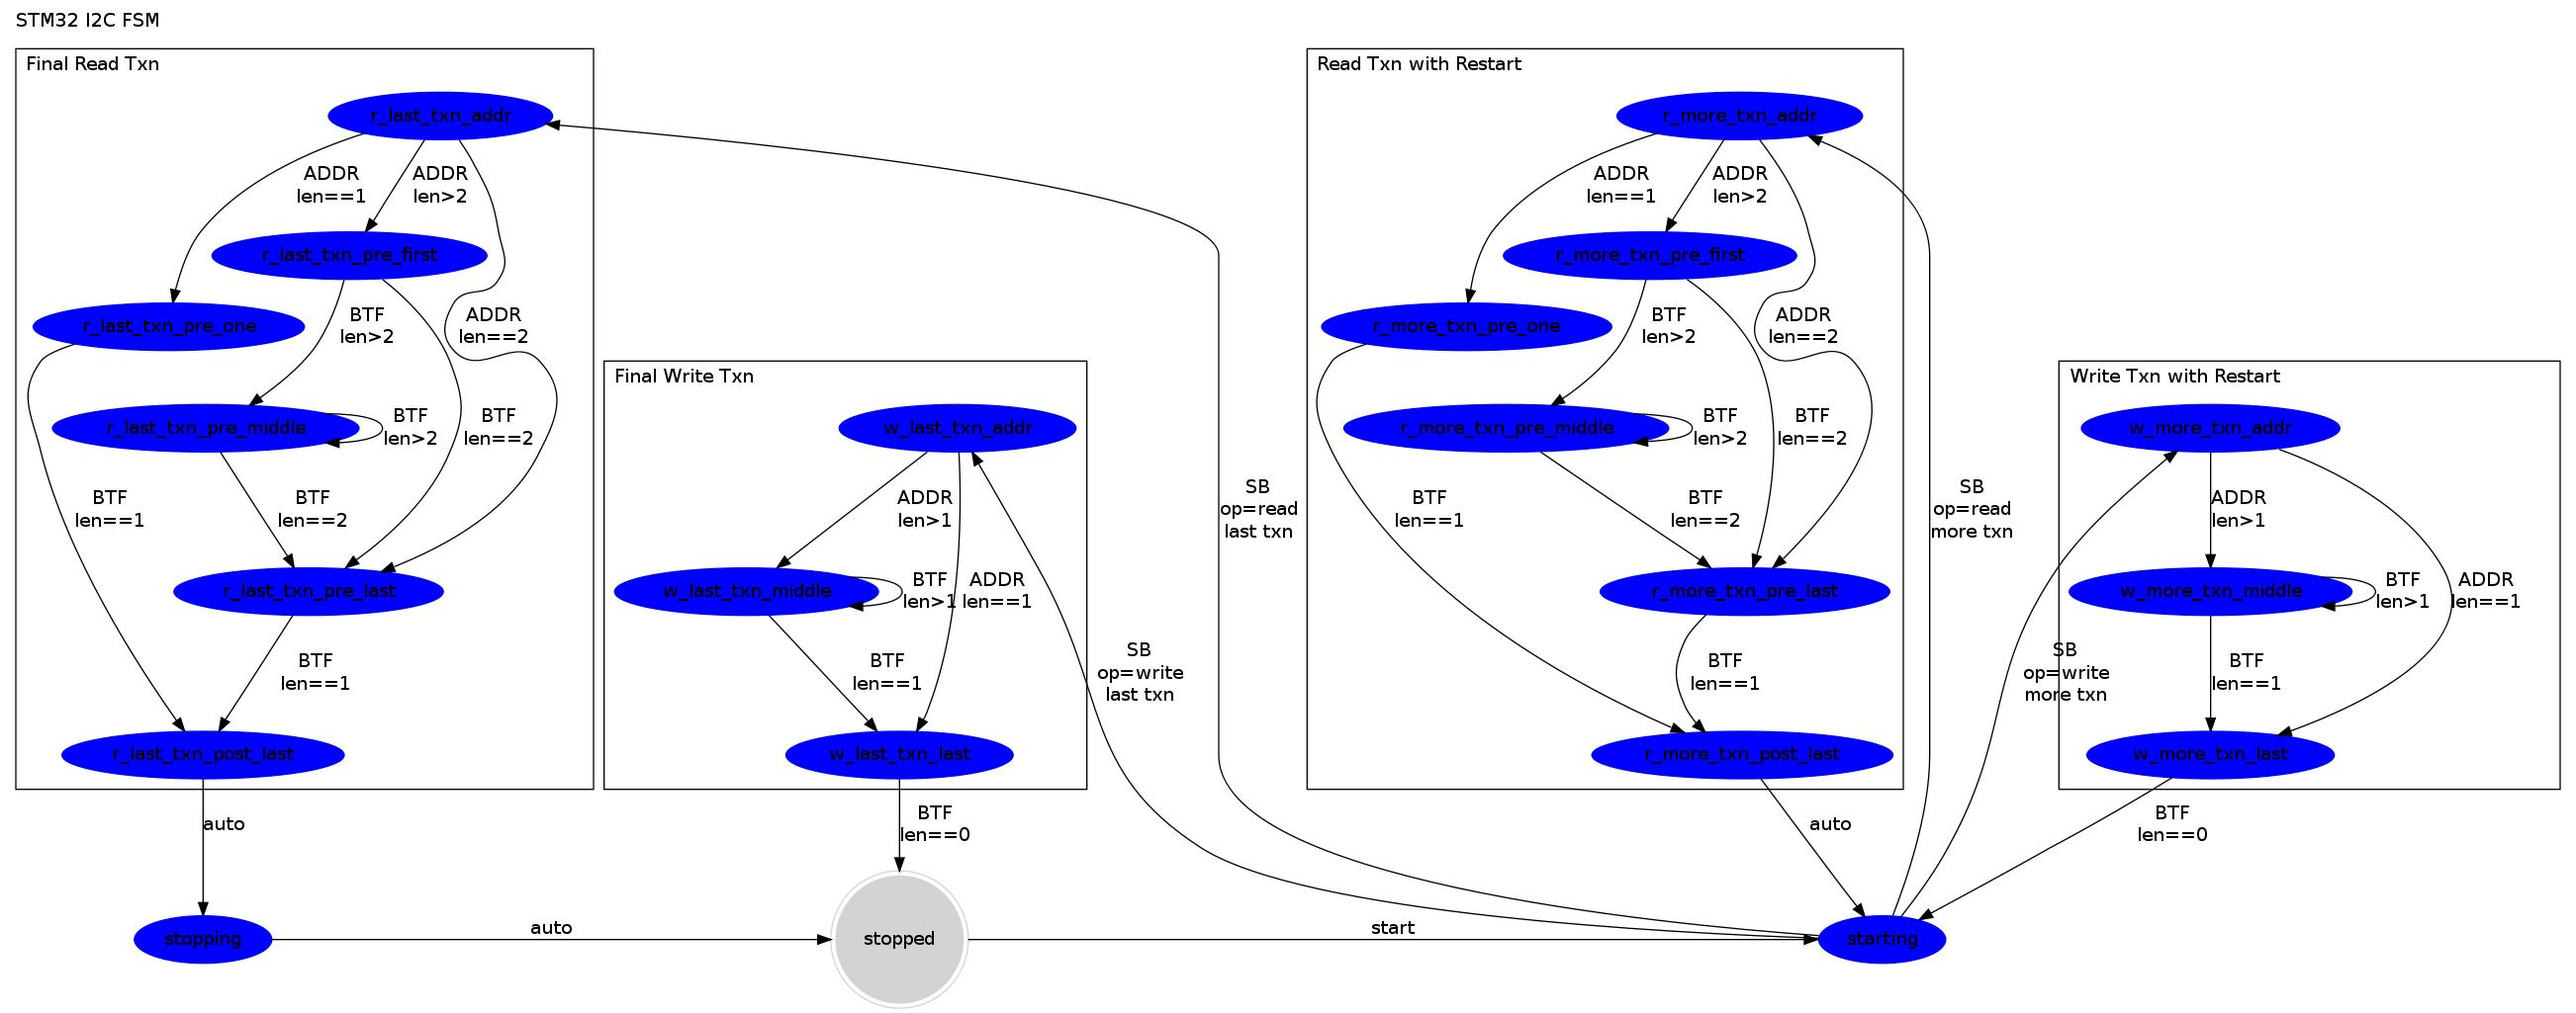
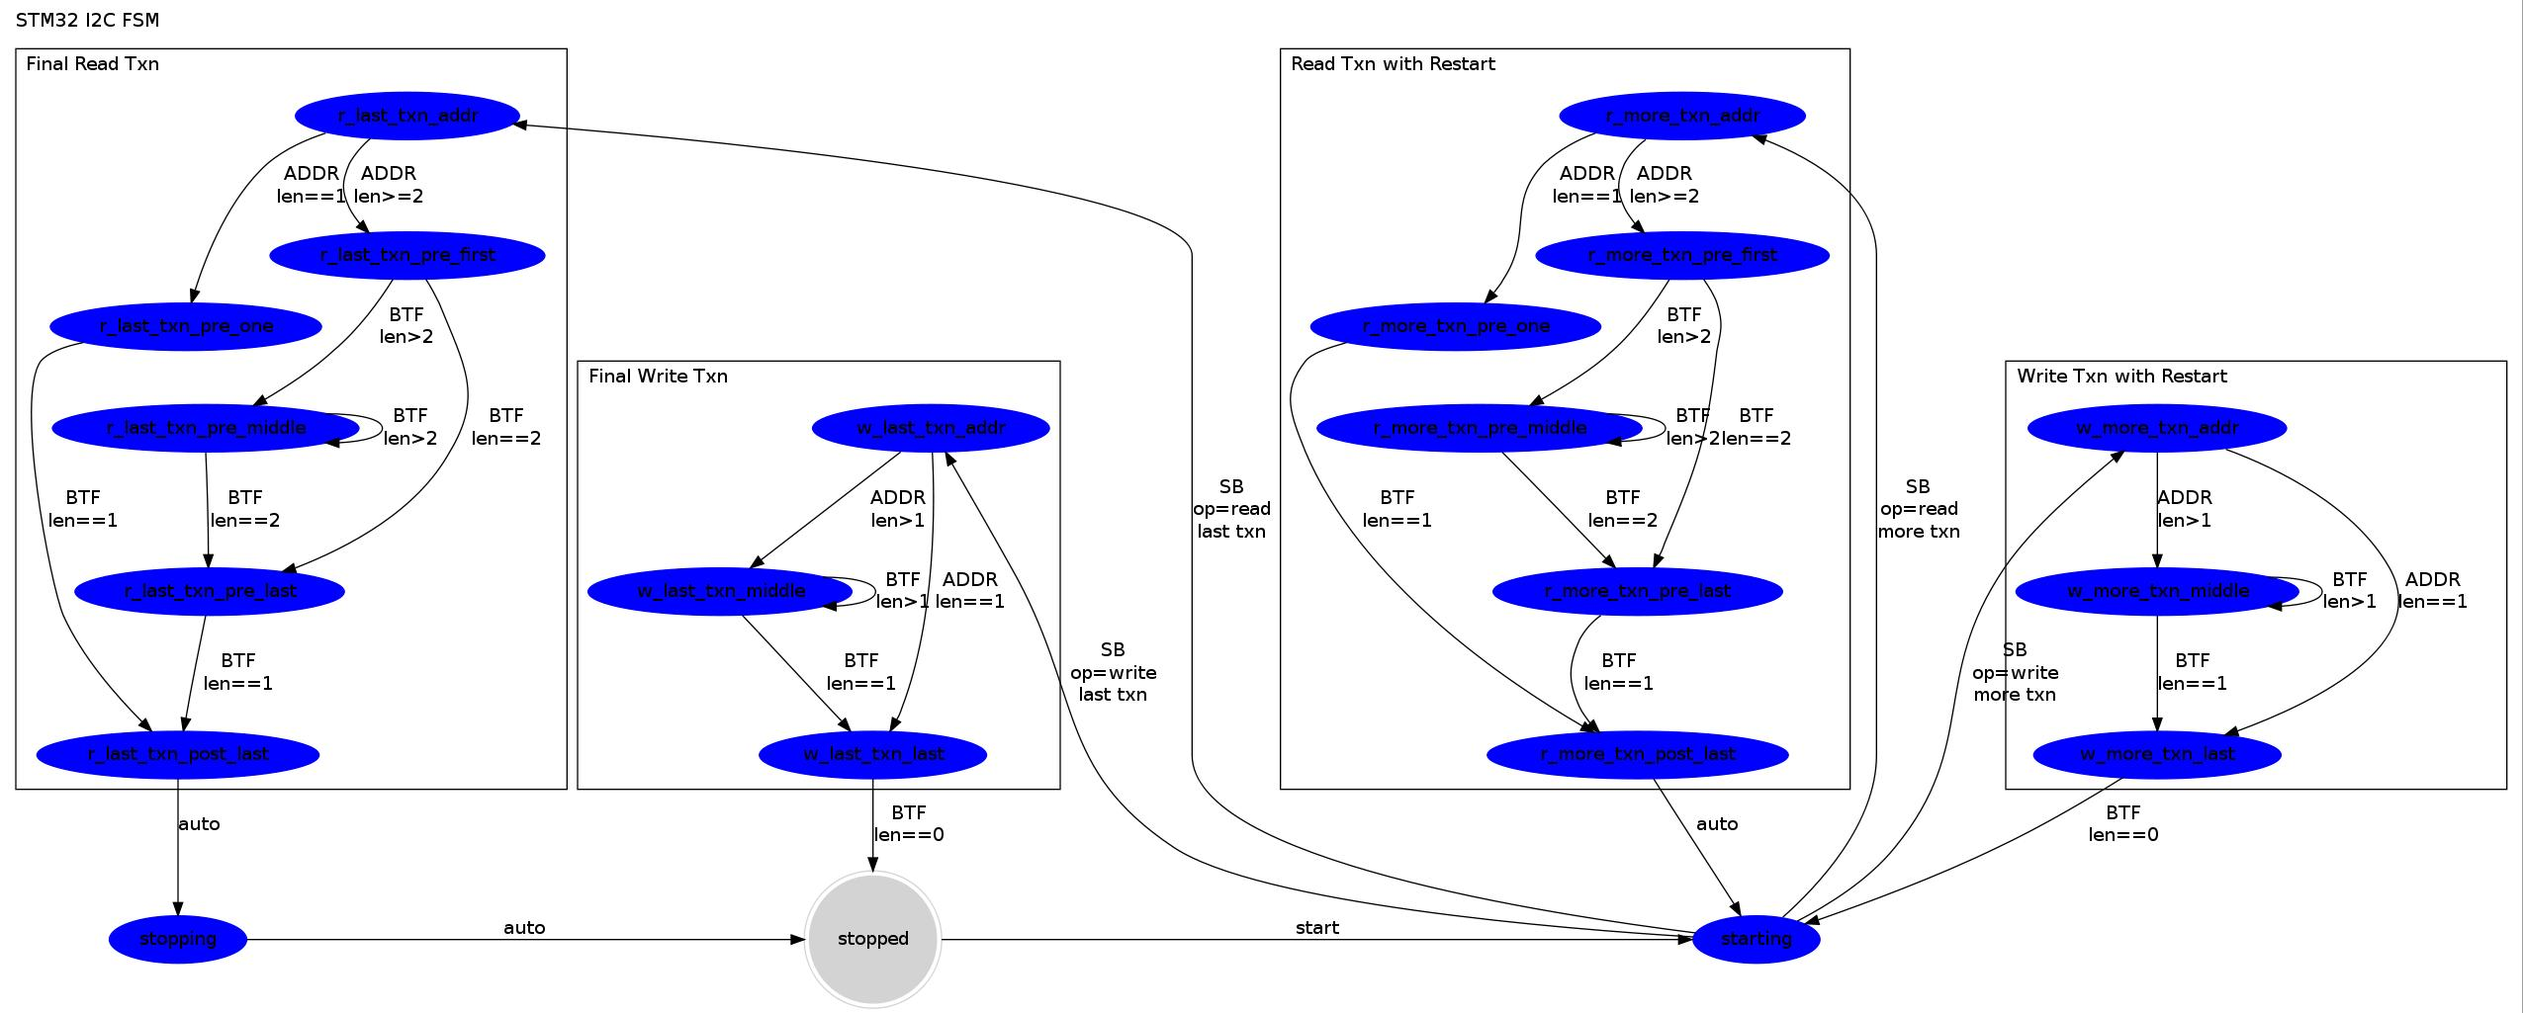
i2c: fix error in FSM for restarted reads
The transition from the ADDR state to the read state
was broken for non-final reads.  The FSM diagram was
also wrong for this transition.

Since reads are always the last transaction in a sequence
in our current usage, this doesn't actually fix any known
bugs.

git-svn-id: svn://svn.openpilot.org/OpenPilot@1350 ebee16cc-31ac-478f-84a7-5cbb03baadba

diff --git a/trunk/flight/PiOS/STM32F10x/pios_i2c.c b/trunk/flight/PiOS/STM32F10x/pios_i2c.c
@@ -133,7 +133,7 @@ const static struct i2c_adapter_transition i2c_adapter_transitions[I2C_STATE_NUM
     .entry_fn = go_r_any_txn_addr,
     .next_state = {
       [I2C_EVENT_ADDR_SENT_LEN_EQ_1]     = I2C_STATE_R_MORE_TXN_PRE_ONE,
-      [I2C_EVENT_ADDR_SENT_LEN_EQ_2]     = I2C_STATE_R_MORE_TXN_PRE_LAST,
+      [I2C_EVENT_ADDR_SENT_LEN_EQ_2]     = I2C_STATE_R_MORE_TXN_PRE_FIRST,
       [I2C_EVENT_ADDR_SENT_LEN_GT_2]     = I2C_STATE_R_MORE_TXN_PRE_FIRST,
     },
   },
